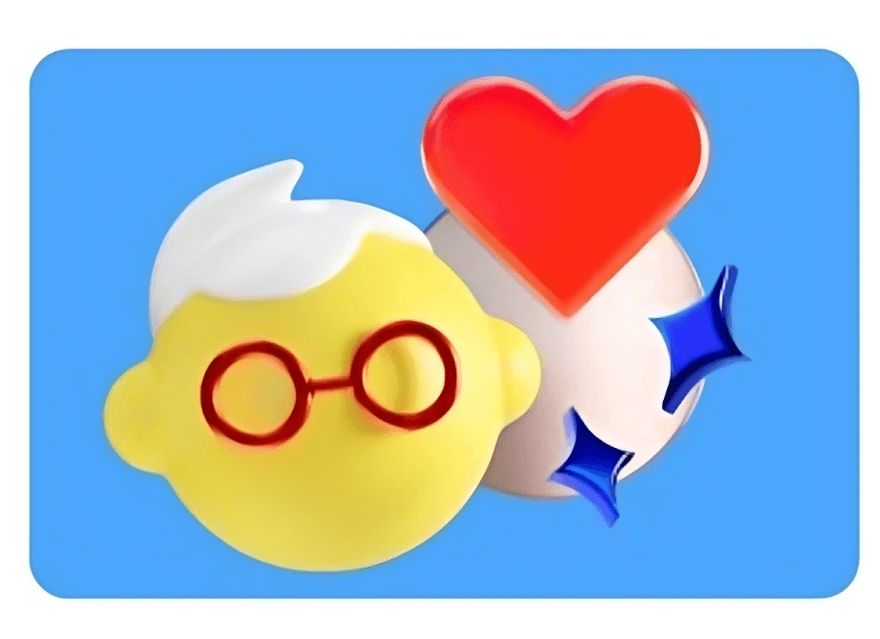
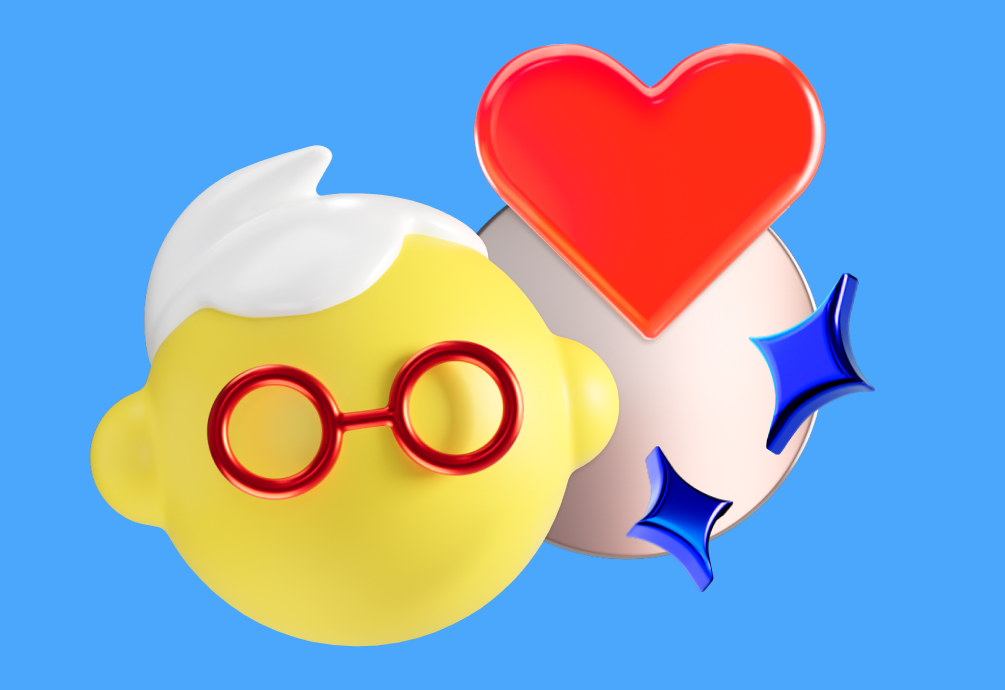
fix

diff --git a/src/App.tsx b/src/App.tsx
@@ -62,7 +62,7 @@ export const App = () => {
           <img
             src={pention}
             alt="Карта для ребенка"
-            style={{ width: "100%" }}
+            style={{ width: "85%", borderRadius: "16px" }}
           />
         </div>
 
